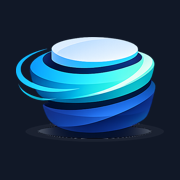
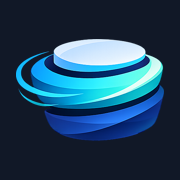
brand: the pin is release v20261122.01, the one the blog draws from
brand now cuts releases, so versions.yaml pins its newest, v20261122.01
(591ae52), tracked as a github-release like spin and spin-terraform-aws, and
the note saying it cuts none is gone. The blog pins the same release, so both
sites draw from one brand.

task reference copied what brand's consumers.toml lists for the website at
that commit: the palette (the mark's cyan and navy undiluted, Inter and
JetBrains Mono named in the tokens), the mark without its base, the favicon
and the touch icon. Each copy is byte for byte brand's at the tag.

Changed region(s): [[0.0833, 0.1944, 0.9167, 0.8056]]

diff --git a/src/styles/brand-tokens.css b/src/styles/brand-tokens.css
@@ -1,65 +1,89 @@
 /* Written by `task palette` from palette.toml (spin-stack/brand). Edit palette.toml, not this file. */
 :root, .spin-dark {
-	--spin-accent: #1B7DB4;
-	--spin-accent-text: #6CC6EE;
-	--spin-border: #34405A;
-	--spin-border-strong: #6B7894;
+	--spin-accent: #26BDED;
+	--spin-accent-text: #54CFF5;
+	--spin-border: #313E5A;
+	--spin-border-strong: #697997;
 	--spin-destructive: #C4384F;
 	--spin-error: #EE7BB0;
+	--spin-hairline: #192237;
 	--spin-label: #8FB3C6;
-	--spin-muted: #9AA5B8;
-	--spin-on-accent: #FFFFFF;
-	--spin-overlay: #2A3550;
-	--spin-page: #0E1421;
-	--spin-raised: #1F2940;
+	--spin-muted: #9AA7BB;
+	--spin-on-accent: #0B1220;
+	--spin-overlay: #26334F;
+	--spin-page: #09101F;
+	--spin-raised: #1B263E;
 	--spin-success: #4CC38A;
-	--spin-surface: #161E2F;
-	--spin-text: #E6EBF2;
+	--spin-surface: #121A2E;
+	--spin-text: #EAF0F6;
 	--spin-warning: #E3B04B;
-	--spin-accent-fill-hover: #186E9E;
-	--spin-accent-fill-active: #155F89;
+	--spin-accent-fill-hover: #21A6D1;
+	--spin-accent-fill-active: #1D90B4;
 	--spin-destructive-hover: #AC3146;
 	--spin-destructive-active: #952B3C;
-	--spin-control: #1F2940;
-	--spin-control-hover: #2A3550;
+	--spin-control: #1B263E;
+	--spin-control-hover: #26334F;
+	--spin-control-border: #313E5A;
+	--spin-row-hover: #121A2E;
+	--spin-row-action-hover: #1B263E;
 	--spin-shadow-overlay: 0 0 0 1px rgb(0 0 0 / 0.4);
 	--spin-success-badge: color-mix(in srgb, var(--spin-success) 12%, transparent);
 	--spin-warning-badge: color-mix(in srgb, var(--spin-warning) 12%, transparent);
 	--spin-error-badge: color-mix(in srgb, var(--spin-error) 12%, transparent);
 	--spin-accent-text-badge: color-mix(in srgb, var(--spin-accent-text) 12%, transparent);
-	--spin-accent-hover: #0F1E30;
-	--spin-accent-selected: #123049;
+	--spin-accent-hover: #0C2134;
+	--spin-accent-selected: #113F57;
+	--spin-trace-service-1: #4085F9;
+	--spin-trace-service-2: #8E72AE;
+	--spin-trace-service-3: #27BFE8;
+	--spin-trace-service-4: #5CEFC0;
+	--spin-trace-service-5: #93A96D;
+	--spin-trace-service-6: #FFD353;
+	--spin-trace-service-7: #B66F03;
+	--spin-trace-service-8: #0A8B7D;
 }
 :root[data-theme='light'] {
-	--spin-accent: #0A6FA3;
-	--spin-accent-text: #075A86;
-	--spin-border: #C4CCD8;
-	--spin-border-strong: #77829A;
+	--spin-accent: #111827;
+	--spin-accent-text: #024F6A;
+	--spin-border: #C4CCD9;
+	--spin-border-strong: #748099;
 	--spin-destructive: #C0303F;
 	--spin-error: #9A1F60;
+	--spin-hairline: #E3E6ED;
 	--spin-label: #33586E;
-	--spin-muted: #525D72;
+	--spin-muted: #515C72;
 	--spin-on-accent: #FFFFFF;
 	--spin-overlay: #FFFFFF;
 	--spin-page: #FFFFFF;
-	--spin-raised: #E1E7F0;
+	--spin-raised: #E0E6F1;
 	--spin-success: #0F6844;
 	--spin-surface: #F1F4F9;
 	--spin-text: #111827;
 	--spin-warning: #845000;
-	--spin-accent-fill-hover: #09628F;
-	--spin-accent-fill-active: #08547C;
+	--spin-accent-fill-hover: #2E3441;
+	--spin-accent-fill-active: #4A4F5B;
 	--spin-destructive-hover: #A92A37;
 	--spin-destructive-active: #922430;
 	--spin-control: #F1F4F9;
-	--spin-control-hover: #E1E7F0;
+	--spin-control-hover: #E0E6F1;
+	--spin-control-border: #C4CCD9;
+	--spin-row-hover: #F1F4F9;
+	--spin-row-action-hover: #E0E6F1;
 	--spin-shadow-overlay: 0 12px 32px rgb(16 19 24 / 0.14), 0 2px 6px rgb(16 19 24 / 0.08);
 	--spin-success-badge: color-mix(in srgb, var(--spin-success) 12%, transparent);
 	--spin-warning-badge: color-mix(in srgb, var(--spin-warning) 12%, transparent);
 	--spin-error-badge: color-mix(in srgb, var(--spin-error) 12%, transparent);
 	--spin-accent-text-badge: color-mix(in srgb, var(--spin-accent-text) 12%, transparent);
-	--spin-accent-hover: #E7F1F6;
-	--spin-accent-selected: #BDD8E6;
+	--spin-accent-hover: #E7E8E9;
+	--spin-accent-selected: #BFC1C5;
+	--spin-trace-service-1: #535FFE;
+	--spin-trace-service-2: #5839A6;
+	--spin-trace-service-3: #116C98;
+	--spin-trace-service-4: #106F39;
+	--spin-trace-service-5: #565B00;
+	--spin-trace-service-6: #573900;
+	--spin-trace-service-7: #4B1803;
+	--spin-trace-service-8: #03857E;
 }
 :root {
 	--spin-brand-blue: #2F6BE3;
@@ -88,12 +112,26 @@
 	--spin-terminal-bright-magenta: #EBB2F7;
 	--spin-terminal-bright-cyan: #5FE3D6;
 	--spin-terminal-bright-white: #FFFFFF;
+	--spin-chart-series-1: #2F6BE3;
+	--spin-chart-series-2: #D9622B;
+	--spin-chart-series-3: #1C9E8C;
+	--spin-chart-series-4: #B58300;
+	--spin-chart-series-5: #C94F9B;
+	--spin-chart-series-6: #4F9A3A;
+	--spin-chart-series-7: #7A5FE0;
+	--spin-chart-series-8: #D24B57;
+	--spin-chart-good: #2F9A5C;
+	--spin-chart-warning: #B07C00;
+	--spin-chart-critical: #D04A9E;
 	--spin-wordmark: "Spinbox";
-	--spin-font-sans: 'IBM Plex Sans', system-ui, -apple-system, 'Segoe UI', sans-serif;
-	--spin-font-mono: 'IBM Plex Mono', ui-monospace, 'SF Mono', Menlo, monospace;
+	--spin-font-sans: 'Inter', system-ui, -apple-system, 'Segoe UI', sans-serif;
+	--spin-font-mono: 'JetBrains Mono', ui-monospace, 'SF Mono', Menlo, monospace;
 	--spin-text-reading: 16px;
 	--spin-text-dense: 13px;
 	--spin-line-height: 1.6;
+	--spin-weight-strong: 600;
+	--spin-weight-medium: 500;
+	--spin-weight-regular: 400;
 	--spin-heading-weight: 600;
 	--spin-heading-tracking: -0.02em;
 	--spin-font-heading: var(--spin-font-sans);
@@ -107,6 +145,8 @@
 	--spin-text-h4: clamp(1rem, 0.9452rem + 0.2247vw, 1.125rem);
 	--spin-measure: 72ch;
 	--spin-sidebar: 17rem;
+	--spin-row: 36px;
+	--spin-sidebar-app: 240px;
 	--spin-radius-sm: 6px;
 	--spin-radius: 8px;
 	--spin-radius-lg: 12px;

diff --git a/src/styles/brand-starlight.css b/src/styles/brand-starlight.css
@@ -1,42 +1,46 @@
 /* Written by `task palette` from palette.toml (spin-stack/brand). Edit palette.toml, not this file. */
 :root {
-	--sl-color-accent-low: #123049;
-	--sl-color-accent: #1B7DB4;
-	--sl-color-accent-high: #A9D9F0;
-	--sl-color-white: #F5F7FA;
-	--sl-color-gray-1: #EEF1F6;
-	--sl-color-gray-2: #E6EBF2;
-	--sl-color-gray-3: #9AA5B8;
-	--sl-color-gray-4: #6B7894;
-	--sl-color-gray-5: #34405A;
-	--sl-color-gray-6: #161E2F;
-	--sl-color-black: #0E1421;
-	--sl-color-banner-bg: #17334C;
-	--sl-color-banner-text: #E6EBF2;
+	--sl-color-accent-low: #113F57;
+	--sl-color-accent: #26BDED;
+	--sl-color-accent-high: #9FE0F6;
+	--sl-color-white: #F7F9FB;
+	--sl-color-gray-1: #F0F4F9;
+	--sl-color-gray-2: #EAF0F6;
+	--sl-color-gray-3: #9AA7BB;
+	--sl-color-gray-4: #697997;
+	--sl-color-gray-5: #313E5A;
+	--sl-color-gray-6: #121A2E;
+	--sl-color-hairline-light: #192237;
+	--sl-color-black: #09101F;
+	--sl-color-banner-bg: #163E58;
+	--sl-color-banner-text: #EAF0F6;
 }
 :root[data-theme='light'] {
-	--sl-color-accent-low: #BDD8E6;
-	--sl-color-accent: #0A6FA3;
-	--sl-color-accent-high: #0C3957;
+	--sl-color-accent-low: #BFC1C5;
+	--sl-color-accent: #111827;
+	--sl-color-accent-high: #0A3449;
 	--sl-color-white: #0A0E17;
 	--sl-color-gray-1: #0E131F;
 	--sl-color-gray-2: #111827;
-	--sl-color-gray-3: #525D72;
-	--sl-color-gray-4: #77829A;
-	--sl-color-gray-5: #C4CCD8;
-	--sl-color-gray-6: #E1E7F0;
+	--sl-color-gray-3: #515C72;
+	--sl-color-gray-4: #748099;
+	--sl-color-gray-5: #C4CCD9;
+	--sl-color-gray-6: #E0E6F1;
+	--sl-color-hairline-light: #E3E6ED;
 	--sl-color-black: #FFFFFF;
-	--sl-color-banner-bg: #BED7E6;
+	--sl-color-banner-bg: #C0C4CB;
 	--sl-color-banner-text: #111827;
 	--sl-color-gray-7: #F1F4F9;
+	--sl-color-text-accent: #024F6A;
 }
 :root {
-	--sl-font: 'IBM Plex Sans', system-ui, -apple-system, 'Segoe UI', sans-serif;
-	--sl-font-mono: 'IBM Plex Mono', ui-monospace, 'SF Mono', Menlo, monospace;
+	--sl-font: 'Inter', system-ui, -apple-system, 'Segoe UI', sans-serif;
+	--sl-font-mono: 'JetBrains Mono', ui-monospace, 'SF Mono', Menlo, monospace;
 }
 :root {
 	--sl-text-h1: clamp(1.75rem, 1.421rem + 1.348vw, 2.5rem);
 	--sl-text-h2: clamp(1.375rem, 1.156rem + 0.8989vw, 1.875rem);
 	--sl-text-h3: clamp(1.125rem, 1.015rem + 0.4494vw, 1.375rem);
 	--sl-text-h4: clamp(1rem, 0.9452rem + 0.2247vw, 1.125rem);
+	--sl-sidebar-width: 17rem;
 }

diff --git a/tools/sources/bump.go b/tools/sources/bump.go
@@ -59,7 +59,7 @@ func bumpFile(ctx context.Context, file string, names []string, gh *github.Clien
 // next is the version a source moves to from where check found it, "" when it stays. holds says
 // whether a release tag holds the commit pinned.
 //
-//   - A branch (brand's main) moves when the branch did: the newest of it is what it has to say.
+//   - A branch moves when the branch did: the newest of it is what it has to say.
 //   - A release moves only to a newer release, never back.
 //   - A commit of main, pinned until a release holds it, moves to the newest release only once
 //     that release holds the commit: the release before it documents less than the site does,

diff --git a/README.md b/README.md
@@ -45,7 +45,7 @@ says so (`bump:`), and `bump` refuses it.
   `refgen -only terraform,brand -check`, which builds no CLI and keeps what the site says of spin
   as `reference.json` has it.
 - **The sync** is `.github/workflows/sync.yml`, every day: `task sources:bump` moves the pins to
-  the newest releases (spin only to one that holds the commit pinned, brand to its main), `task
+  the newest releases (spin only to one that holds the commit pinned), `task
   reference` regenerates, and the sync App force-pushes branch `sync/sources` and opens or
   updates its one pull request, which a person reviews; nothing merges it. spin is private and
   this repository public, so the pull request lists the pins that moved and the files that
